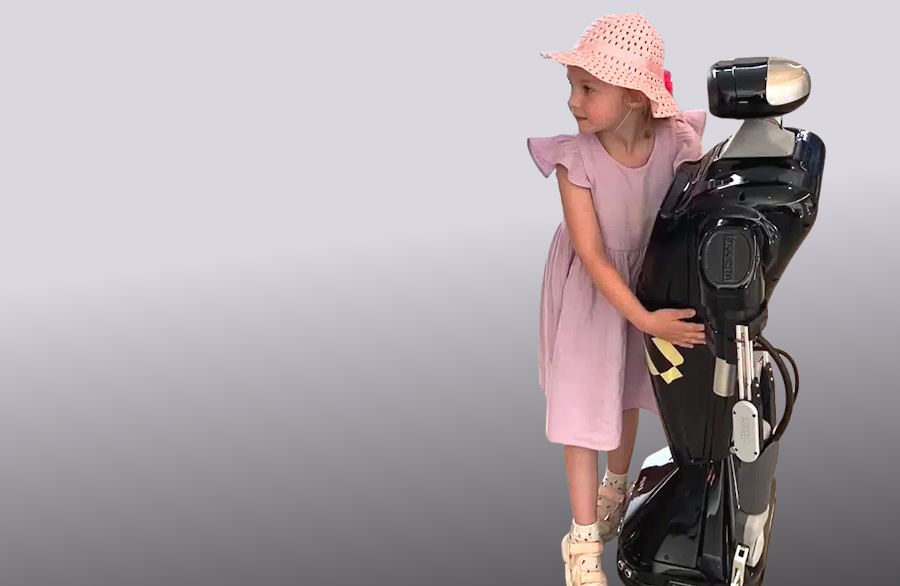
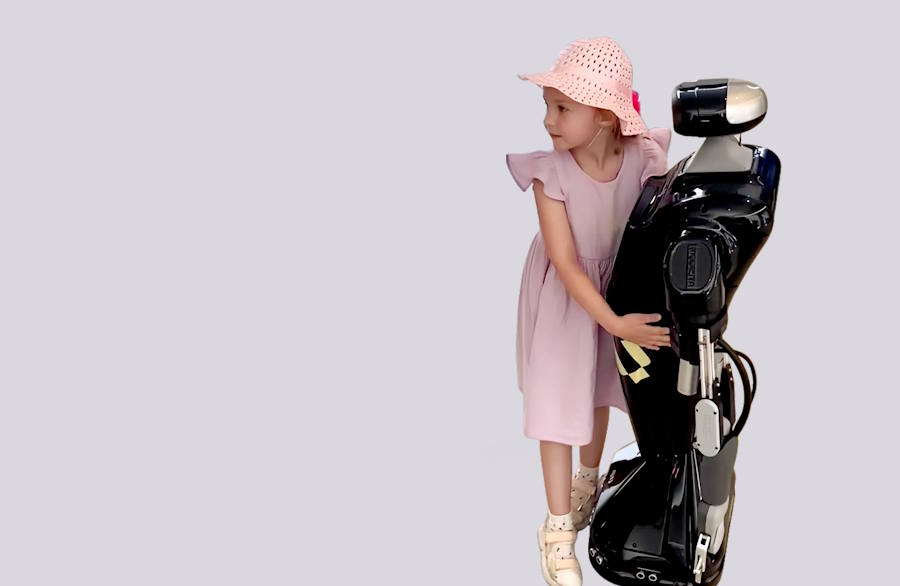
Update image assets and implement PhotoSliderBlock component: Replaced several robot feature images with updated versions and added a new PhotoSliderBlock to the robotics page, showcasing images from the exhibition "Надежда на технологии" for enhanced visual presentation.

diff --git a/components/PhotoSliderBlock.jsx b/components/PhotoSliderBlock.jsx
@@ -1,0 +1,78 @@
+import React, { useState } from "react";
+import { VisibilityManager } from "./VisibilityManager.jsx";
+
+import "react-responsive-carousel/lib/styles/carousel.min.css";
+import { Carousel } from "react-responsive-carousel";
+import { ArrowButton } from "./ScrollTopButton.jsx";
+import { useMediaQuery } from "../hooks/useMediaQuery.jsx";
+import Image from "next/image.js";
+
+export function PhotoSliderBlock({ 
+  title, 
+  desktopImages = [], 
+  mobileImages = [], 
+  id,
+  className = "",
+  showArrows = true,
+  showIndicators = null // null = auto (based on device)
+}) {
+  const isDesktop = useMediaQuery(`(min-width: 768px)`);
+
+  const images = isDesktop ? desktopImages : (mobileImages.length > 0 ? mobileImages : desktopImages);
+  const shouldShowIndicators = showIndicators !== null ? showIndicators : !isDesktop;
+
+  return (
+    <VisibilityManager
+      className={`max-w-full w-full mx-auto p-0 mb-15 md:mb-30  ${className}`}
+    >
+      <div 
+        className="w-auto pb-8 md:pt-15 relative overflow-hidden flex flex-col items-center justify-center" 
+        id={id}
+      >
+        {title && (
+          <VisibilityManager className="text-[var(--font-color)] w-full text-center text-[32px] leading-[38px] px-5 py-10 mt-0 mb-0 md:w-auto md:text-[52px] md:leading-[60px] md:p-5 md:mb-[40px] font-bold uppercase">
+            {title}
+          </VisibilityManager>
+        )}
+        <Carousel
+          className=" [&_.control-dots]:bottom-[-10px] md:[&_.control-dots]:bottom-auto [&_.carousel.carousel-slider]:h-full [&_.slider-wrapper]:h-full [&_.slider]:h-full [&_.slider]:items-center lign-middle [&_.slide]:h-full"
+          showArrows={showArrows}
+          showStatus={false}
+          showIndicators={shouldShowIndicators}
+          showThumbs={false}
+          swipeScrollTolerance={30}
+          preventMovementUntilSwipeScrollTolerance={true}
+          transitionTime={800}
+          infiniteLoop={true}
+          renderArrowPrev={(clickHandler) => (
+            <div className="absolute z-[2] left-5 top-[calc(50%-30px)] -rotate-90">
+              <ArrowButton onClick={clickHandler} />
+            </div>
+          )}
+          renderArrowNext={(clickHandler) => (
+            <div className="absolute z-[2] right-5 top-[calc(50%-30px)] rotate-90">
+              <ArrowButton onClick={clickHandler} />
+            </div>
+          )}
+        >
+          {images.map((src, i) => (
+            <SliderImage key={i} src={src} i={i} />
+          ))}
+        </Carousel>
+      </div>
+    </VisibilityManager>
+  );
+}
+
+const SliderImage = ({ src, i, altText }) => {
+  const [loaded, setLoaded] = useState(false);
+
+  return (
+    <Image
+      className={`w-auto h-full max-h-[700px] object-contain opacity-0 transition-all duration-[800ms] ease-in-out ${loaded ? 'opacity-100' : ''}`}
+      src={src}
+      alt={altText || `Изображение №${i + 1}`}
+      onLoad={() => setLoaded(true)}
+    />
+  );
+}; 

diff --git a/pages/robotics.js b/pages/robotics.js
@@ -3,6 +3,7 @@ import Layout from "../components/Layout.js";
 import { VideoWidget } from "../components/VideoWidget.jsx";
 import { VisibilityManager } from "../components/VisibilityManager.jsx";
 import { PreviewBlock } from "../components/PreviewBlock.jsx";
+import { PhotoSliderBlock } from "../components/PhotoSliderBlock.jsx";
 import Image from "next/image";
 import AnimatedCounter from "../components/AnimatedCounter.jsx";
 import { useYandexRobot } from "../hooks/useYandexMetricsPageLoaded.jsx";
@@ -23,6 +24,13 @@ import robot_tech_img_1 from "../assets/images/robot_tech_img_1.jpg";
 import robot_tech_img_2 from "../assets/images/robot_tech_img_2.jpg";
 import robot_tech_img_3 from "../assets/images/robot_tech_img_3.jpg";
 import robot_tech_img_4 from "../assets/images/robot_tech_img_4.jpg";
+
+import robotics_slider_1 from "../assets/images/robotics_slider_1.jpg";
+import robotics_slider_2 from "../assets/images/robotics_slider_2.jpg";
+import robotics_slider_3 from "../assets/images/robotics_slider_3.jpg";
+import robotics_slider_4 from "../assets/images/robotics_slider_4.jpg";
+import robotics_slider_5 from "../assets/images/robotics_slider_5.jpg";
+import robotics_slider_6 from "../assets/images/robotics_slider_6.jpg";
 
 const robotTechSpecs = [
   {
@@ -353,18 +361,39 @@ export default function Robotics() {
         <RobotCapabilitiesBlock />
 
         <div className="flex justify-center mb-[80px]">
-        <FeedbackButton
-          classes="px-[30px] shadow-none w-auto"
-          onClick={setOpened}
-          text={"Оформить Предзаказ"}
-          withIcon={false}
-        />
+          <FeedbackButton
+            classes="px-[30px] shadow-none w-auto"
+            onClick={setOpened}
+            text={"Оформить Предзаказ"}
+            withIcon={false}
+          />
         </div>
-   
 
         {/* Технические характеристики */}
         <RobotTechBlock />
         {/* Видео блок */}
+
+        <PhotoSliderBlock
+          title="Выставка «Надежда на технологии»"
+          desktopImages={[
+            robotics_slider_1,
+            robotics_slider_2,
+            robotics_slider_3,
+            robotics_slider_4,
+            robotics_slider_5,
+            robotics_slider_6,
+          ]}
+          mobileImages={[
+            robotics_slider_1,
+            robotics_slider_2,
+            robotics_slider_3,
+            robotics_slider_4,
+            robotics_slider_5,
+            robotics_slider_6,
+          ]}
+          id="photo-gallery"
+        />
+
         <VideoWidget
           title="Робототехнические разработки"
           description="Видео о процессе создания и возможностях наших роботов"
